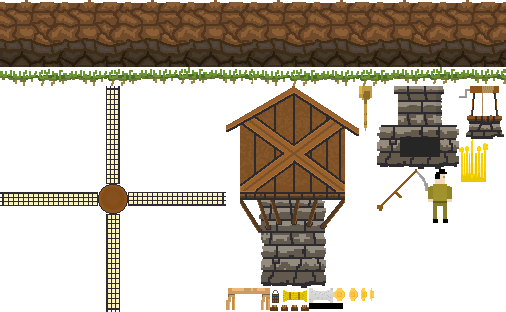
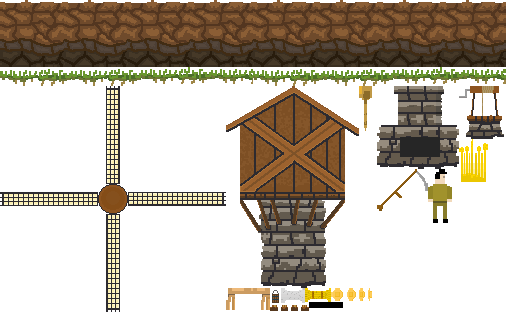
Crops explode

Changed region(s): [[0.5336, 0.9231, 0.7411, 1.0]]

diff --git a/src/entity/HarvestedCrop.js b/src/entity/HarvestedCrop.js
@@ -1,0 +1,35 @@
+import Depths from 'structs/Depths';
+
+export default class HarvestedCrop extends Phaser.GameObjects.Image {
+    constructor (scene, x, y) {
+        super(scene, x, y, 'assets', 'Crops');
+        this.scene.add.existing(this);
+        this.scene.physics.world.enable(this);
+        this.setDepth(Depths.CROP);
+
+        this.body.setDrag(10, 10);
+        this.body.setCircle(12, 0, -12);
+        this.body.setCollideWorldBounds(true);
+        this.body.setFriction(0.6);
+    }
+
+    explode (initY = false) {
+        if (!initY) {
+            initY = Phaser.Math.RND.integerInRange(-400, -150);
+        }
+        this.body.setVelocity(
+            Phaser.Math.RND.integerInRange(-60, 60),
+            Phaser.Math.RND.integerInRange(initY - 50, initY + 50)
+        );
+
+        this.body.angularVelocity = Phaser.Math.RND.integerInRange(0, 100);
+    }
+
+    preUpdate () {
+        if (this.body.touching.down) {
+            this.body.setAngularDrag(150);
+            this.body.setDrag(30, 10);
+            // this.body.setAngularVelocity(0);
+        }
+    }
+}

diff --git a/src/entity/buildings/Grain.js b/src/entity/buildings/Grain.js
@@ -2,8 +2,9 @@ import Depths from 'structs/Depths';
 import BuildingsAndItemsStates from 'structs/BuildingsAndItemsStates';
 import BuildingStatesTiming from 'structs/BuildingStatesTiming';
 import ProgressBarUI from 'ui/ProgressBarUI';
+import HarvestedCrop from 'entity/HarvestedCrop';
 
-export default class WellBuilding extends Phaser.GameObjects.Image {
+export default class Grain extends Phaser.GameObjects.Image {
     constructor (scene, x, y) {
         super(scene, x, y, 'assets', 'Grain');
         this.scene.add.existing(this);
@@ -121,6 +122,13 @@ export default class WellBuilding extends Phaser.GameObjects.Image {
 
         this._timeEventWaitForPickUp.destroy();
         this.state = BuildingsAndItemsStates.GRAIN.HARVESTED;
+
+        let initY = Phaser.Math.RND.integerInRange(-400, -300);
+        for (let i = 0; i < Phaser.Math.RND.integerInRange(2, 4); i++) {
+            let crop = new HarvestedCrop(this.scene, this.x, this.y);
+            crop.explode(initY);
+            this.scene.gameEnvironment.crops.add(crop);
+        }
         this.destroy(true);
     }
 

diff --git a/src/core/GameEnvironment.js b/src/core/GameEnvironment.js
@@ -1,10 +1,11 @@
 import Phaser from 'phaser';
 import GameConfig from 'GameConfig';
 import Depths from 'structs/Depths';
-import WellBuilding from 'entity/WellBuilding';
-import BakeryBuilding from 'entity/BakeryBuilding';
-import Grain from 'entity/Grain';
-import MillBuilding from 'entity/MillBuilding';
+import WellBuilding from 'entity/buildings/WellBuilding';
+import BakeryBuilding from 'entity/buildings/BakeryBuilding';
+import Grain from 'entity/buildings/Grain';
+import MillBuilding from 'entity/buildings/MillBuilding';
+import HarvestedCrop from 'entity/HarvestedCrop';
 
 export default class GameEnvironment {
     /**
@@ -60,6 +61,11 @@ export default class GameEnvironment {
          * @private
          */
         this._buildingsAndItems = this.scene.add.group();
+
+        /**
+         * @type {Phaser.GameObjects.Group}
+         */
+        this.crops = this.scene.add.group();
 
         this._createBgStatic();
         this._createGround();

diff --git a/src/entity/PlayerCharacter.js b/src/entity/PlayerCharacter.js
@@ -52,6 +52,8 @@ export default class PlayerCharacter extends Phaser.GameObjects.Container {
         this.body.setBounce(0.2);
         this.body.setCollideWorldBounds(true);
 
+        this.body.setDragX(600);
+
         this.body.setSize(22, 52);
 
         this._overHeadText = this.scene.add.text(this.x, this.y, GameConfig.DefaultOverHeadText, { fontFamily: 'Verdana, Arial', fontSize: 45, color: '#FFFFFF' }); // '#FF0000'

diff --git a/src/scenes/GameScene.js b/src/scenes/GameScene.js
@@ -51,6 +51,7 @@ export default class GameScene extends Phaser.Scene {
         this.gameControls = new GameControls(this);
 
         this.physics.add.collider(this.playerCharacter, this.gameEnvironment.groundGroup);
+        this.physics.add.collider(this.gameEnvironment.crops, this.gameEnvironment.groundGroup);
     }
 
     update () {

diff --git a/src/structs/BuildingStatesTiming.js b/src/structs/BuildingStatesTiming.js
@@ -1,7 +1,7 @@
 import BuildingsAndItemsStates from 'structs/BuildingsAndItemsStates';
 export default {
     GRAIN: {
-        GROWING: 3000, // 15000
+        GROWING: 100, // 15000
         GROWED_WAITING_FOR_WATER: 5000,
         GROWED_WAIT_FOR_DEAD: 20000
     }

diff --git a/src/structs/Depths.js b/src/structs/Depths.js
@@ -7,6 +7,7 @@ export default {
     BAKERY: 170,
     PLAYER: 1000,
     GRAIN: 1200,
+    CROP: 1400,
     MILL_WHEEL: 1500,
     GRASS: 8000,
     PLAYER_OVERHEAD_TEXT: 9000,

diff --git a/src/controlers/BuildControler.js b/src/controlers/BuildControler.js
@@ -1,4 +1,4 @@
-import Grain from 'entity/Grain';
+import Grain from 'entity/buildings/Grain';
 
 export default class BuildControler {
     /**
